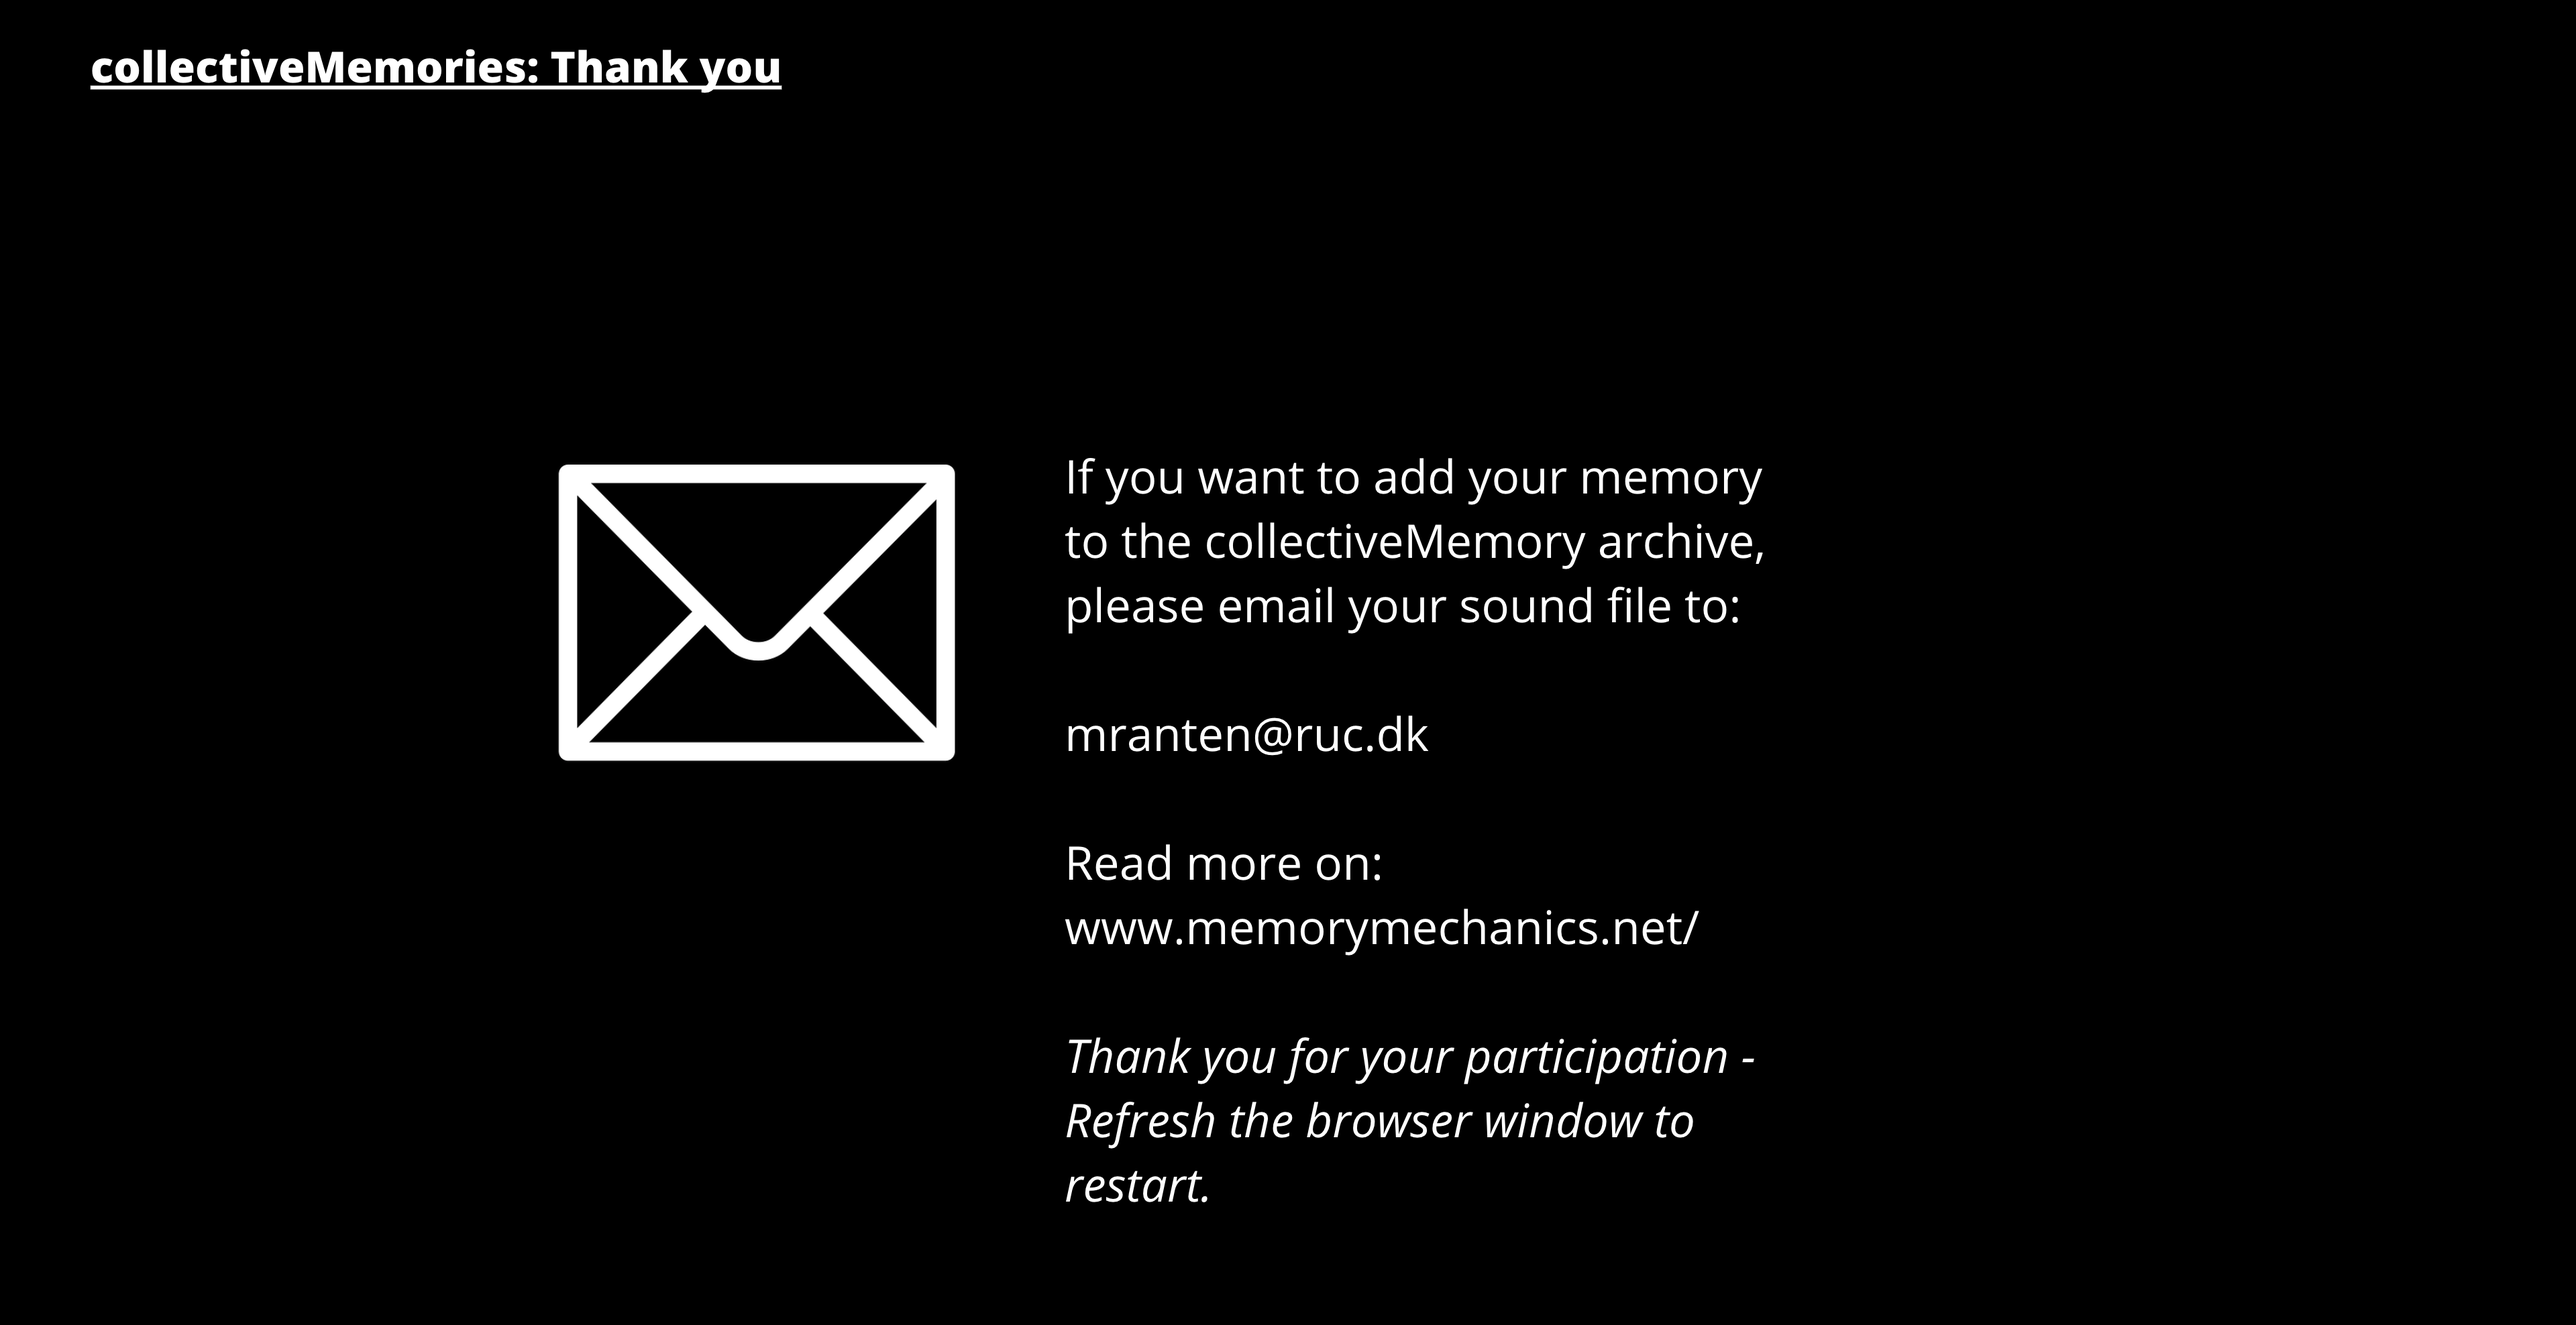
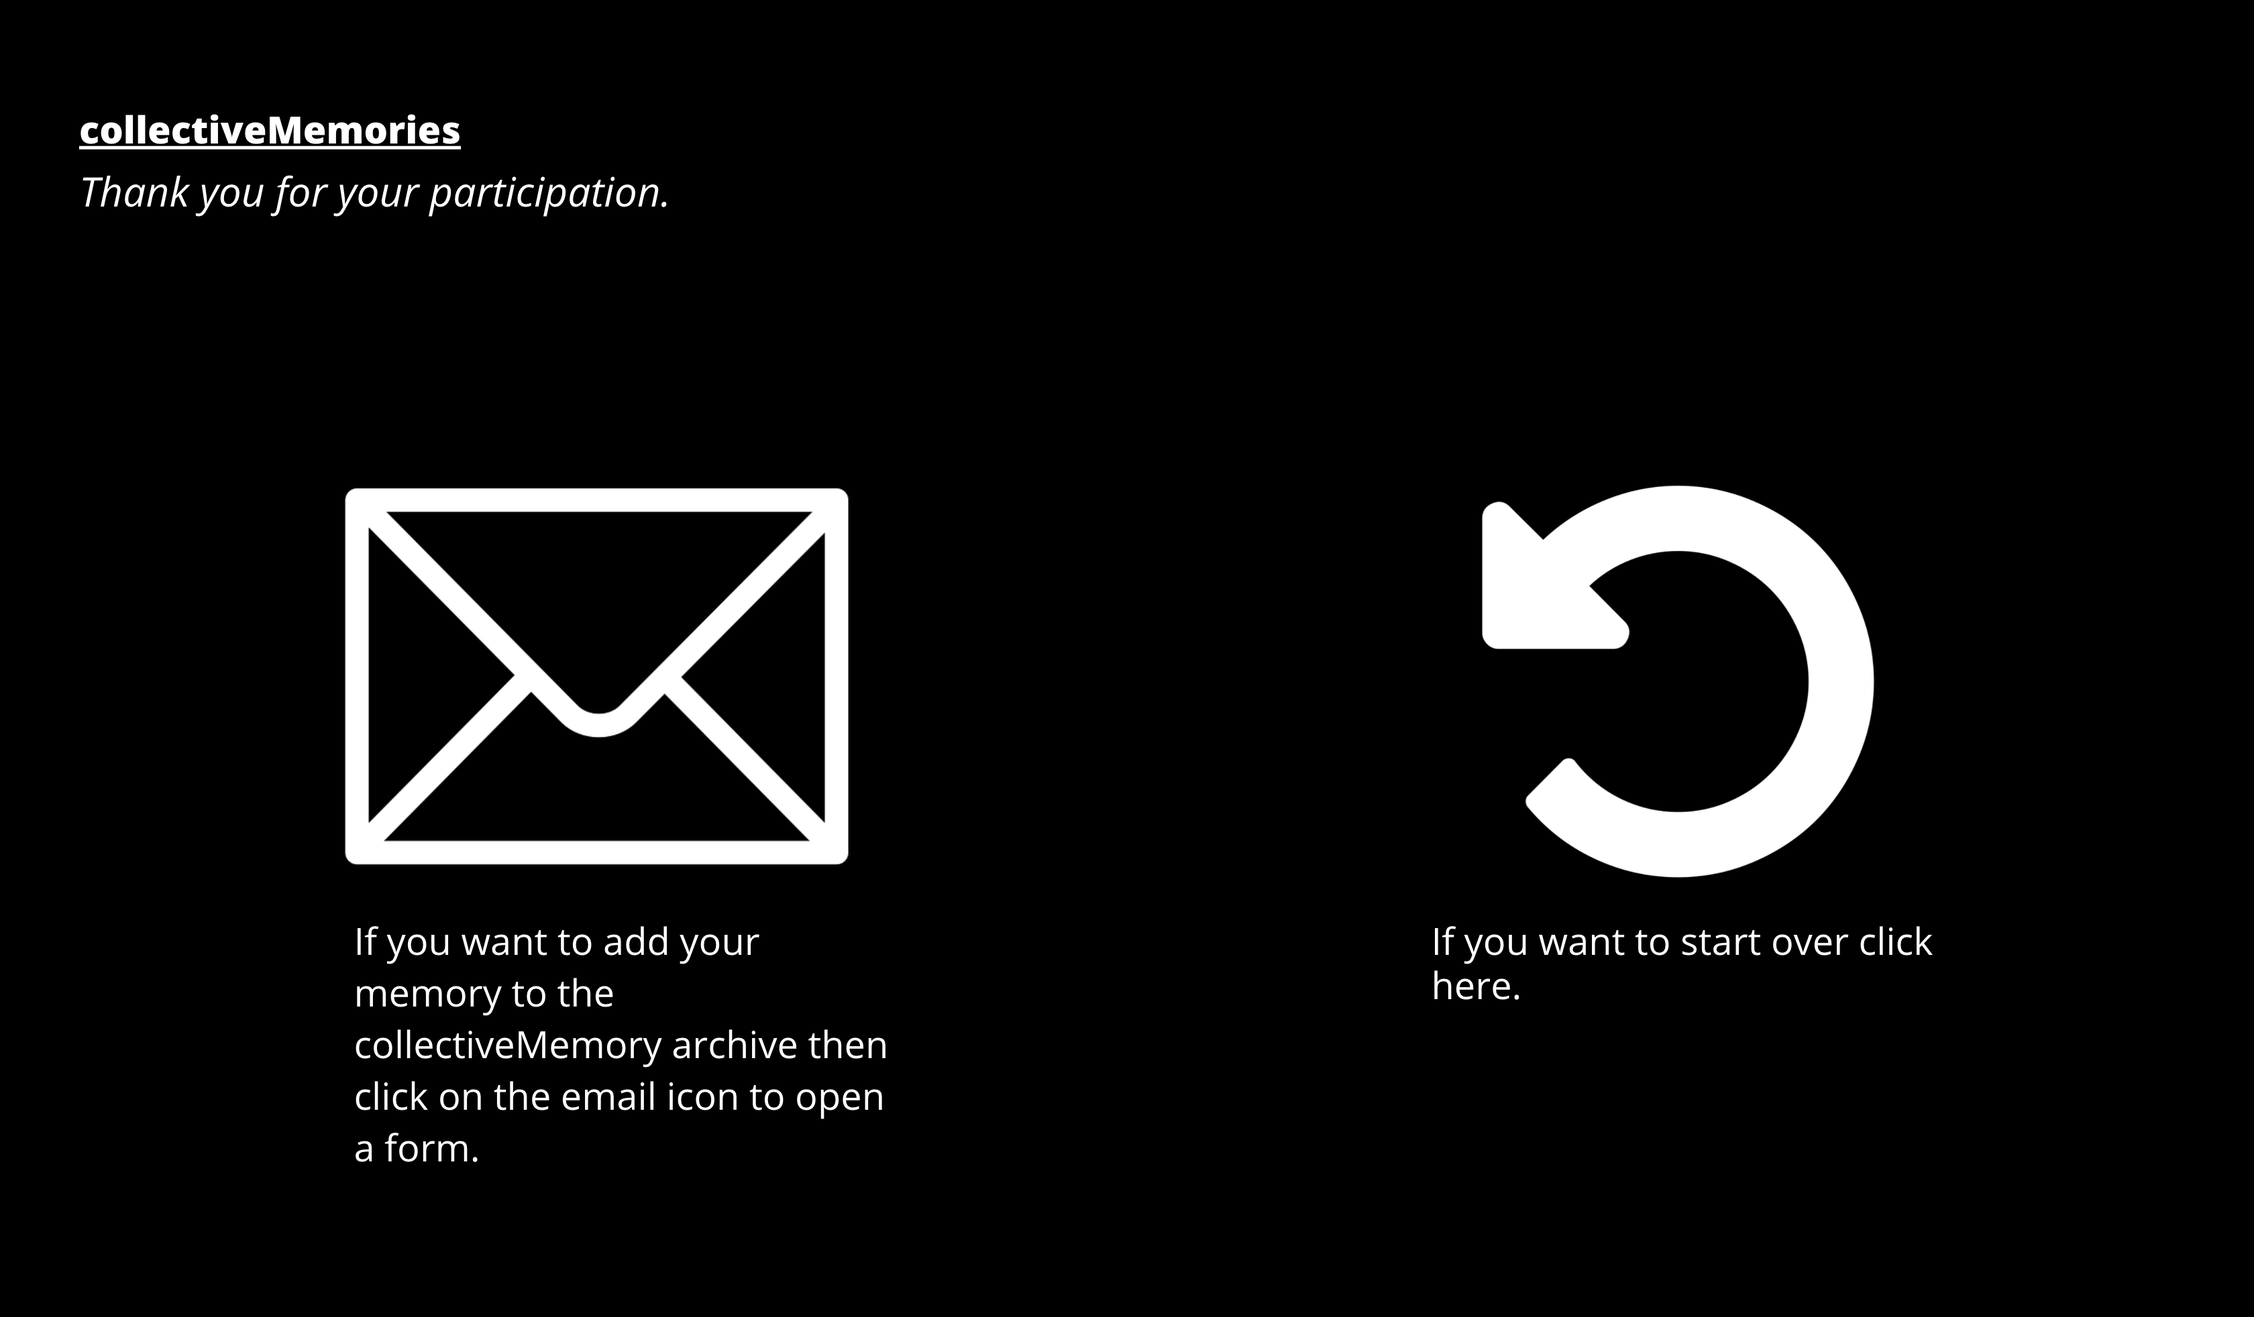
..

diff --git a/sketch.js b/sketch.js
@@ -194,7 +194,7 @@ function modelReady() {
 
 function setup() {
   frameRate(30);
- // print(responsiveVoice.getVoices());
+  // print(responsiveVoice.getVoices());
   const canvas = createCanvas(windowWidth, windowHeight);
   setupGamepad();
 
@@ -202,9 +202,9 @@ function setup() {
   let constraints = {
     video: {
       mandatory: {
-       // minWidth: 1280,
-     //   minHeight: 720
-         minWidth: 640,
+        // minWidth: 1280,
+        //   minHeight: 720
+        minWidth: 640,
         minHeight: 480
       }
       // ,optional: [{ maxFrameRate: 10 }]
@@ -212,12 +212,12 @@ function setup() {
     audio: false
   };
   video = createCapture(constraints, function(stream) {
-   
+
 
   });
 
   //video.size(1280, 720);
-  video.size(640,480);
+  video.size(640, 480);
   // print(video.height);
 
 
@@ -289,7 +289,7 @@ function setup() {
 
   chromeAgent = navigator.userAgent.indexOf("Chrome") > -1;
 
-  
+
 
   textAlign(CENTER);
   imageMode(CENTER);
@@ -322,8 +322,7 @@ function draw() {
   {
     playSounds = false;
     updateSounds();
-    print("sdf");
-  //  state = -1;
+
     mouseIsPressed = false;
     mySound.stop();
     queue = [];
@@ -331,7 +330,17 @@ function draw() {
     curText = "";
     movementStep = 0;
     introStep = 0;
-     image(img_outro, width / 2, height / 2, windowWidth, windowWidth / img_outro.width * img_outro.height);
+    state = -3;
+
+  } else if (state == -3) {
+    image(img_outro, width / 2, height / 2, windowWidth, windowWidth / img_outro.width * img_outro.height);
+    cursor(HAND);
+    if (mouseIsPressed && mouseX > width / 2) {
+      state = -1;
+
+    } else if (mouseIsPressed && mouseX < width / 2) {
+      var myWindow = window.open("https://forms.gle/ww9vmCF548KG7UhD6", "_blank");
+    }
 
   } else if (state == -2) // startup loading
   {
@@ -380,14 +389,14 @@ function draw() {
         state = 0;
       }, 3000);
       mySound.play();
-       mySound.setVolume(0.3);
+      mySound.setVolume(0.3);
     }
 
   } else if (state == -0.5) {
 
   } else if (state == 0) { // introduction
 
-   
+
     if (!speaking) {
       if (introStep == 3 && (poses == undefined || (poses != undefined && poses.length == 0))) {
         // nobody on the screen
@@ -396,10 +405,10 @@ function draw() {
         addSpeak(intro[introStep], 1000);
         introStep++
       } else {
-        mySound.setVolume(1,1);
+        mySound.setVolume(1, 1);
         setTimeout(function() {
           state = 0.5;
-          mySound.setVolume(0.2,1);
+          mySound.setVolume(0.2, 1);
         }, 10000);
 
       }
@@ -411,7 +420,7 @@ function draw() {
 
 
   } else if (state == 0.5) { // guided to a sound bit
-  
+
     if (!speaking) {
 
       if (guidedToPos < guidedToASoundBite.length) {
@@ -430,12 +439,12 @@ function draw() {
         sI = round(random(sounds.length - 1));
         sounds[sI].stop();
         print(sounds[sI].isLooping());
-      } else if (guidedToPos == guidedToASoundBite.length+1 && !sounds[sI].isPlaying()) { // atart the sound
+      } else if (guidedToPos == guidedToASoundBite.length + 1 && !sounds[sI].isPlaying()) { // atart the sound
         guidedToPos++;
         sounds[sI].play();
         sounds[sI].setVolume(1);
-          curText = "";
-      } else if (guidedToPos == guidedToASoundBite.length+2 && !sounds[sI].isPlaying()) { // go to the next state
+        curText = "";
+      } else if (guidedToPos == guidedToASoundBite.length + 2 && !sounds[sI].isPlaying()) { // go to the next state
         state = 1;
 
         addSpeak("Now it’s your turn to remember from the body - once you’re in the position, \nI invite you to share the memories or images that arise by talking out loud. \nIf nothing comes to mind just say that and relax.", 3000);
@@ -447,10 +456,10 @@ function draw() {
 
 
   } else if (state == 1) { // guided movement
-   
+
     if (!speaking) { // find yor moment.
       if (movementStep == 1) {
-      //  addSpeak(pauseAndListen, random(7000, 10000));
+        //  addSpeak(pauseAndListen, random(7000, 10000));
         state = 2;
       } else { // moving the body
 
@@ -469,7 +478,7 @@ function draw() {
 
   } else if (state == 2) // finding a moment
   {
-   
+
     if (!speaking) {
       addSpeak("What comes to mind when you’re in this position? \nDo you remember anything? \nPlease talk out loud for up to half a minute. From 3. 2. 1. now", 0);
 
@@ -479,12 +488,12 @@ function draw() {
 
 
   } else if (state == 3) {
-   
+
     if (!speaking) {
       mySound.setVolume(0, 1);
       state = 4;
       startPoseRecording();
-       recordingTimer = millis();
+      recordingTimer = millis();
 
       setTimeout(function() {
         endPoseRecording();
@@ -493,32 +502,30 @@ function draw() {
         addSpeak("You can now explore your memory with all the other memories", 3000);
         addSpeak("Move your body into different positions to explore the landscape", 3000);
         state = 5;
-    
+
         setTimeout(function() {
           curText = "";
         }, 30000);
-  
+
       }, 20000);
     }
 
   } else if (state == 4) { // recording
-   // todo countdown?
-    background(255,0,0);
-    fill(0,0,0);
-    rect(0,0,width, map(millis()-recordingTimer ,0,20000,0,height));
-  }
-  
-  else if (state == 5) { // exploration
-     if (!speaking && !playSounds) {
-       playSounds = true;
-        updateSounds();
-     }
+    // todo countdown?
+    background(255, 0, 0);
+    fill(0, 0, 0);
+    rect(0, 0, width, map(millis() - recordingTimer, 0, 20000, 0, height));
+  } else if (state == 5) { // exploration
+    if (!speaking && !playSounds) {
+      playSounds = true;
+      updateSounds();
+    }
 
   }
 
 
   if (state >= 0 && state != 4 && fullscreen()) {
-  printEye();
+    printEye();
     push();
 
     scale(videoScaling);
@@ -1044,8 +1051,9 @@ function cleanUpSkeleton(skeleton) {
 
 // A function to draw ellipses over the detected keypoints
 var oldKeypoint;
+
 function drawKeypoints(pose) {
-  
+
   // Loop through all the poses detected
   // 
 
@@ -1057,14 +1065,13 @@ function drawKeypoints(pose) {
       fill(255, 255, 255, 150);
       noStroke();
       ellipse(keypoint.position.x, keypoint.position.y, 15, 15);
-      if(oldKeypoint!=undefined)
-      {
-          stroke(255, 255, 255, 150);
-      strokeWeight(4);
-     // line(keypoint.position.x, keypoint.position.y,oldKeypoint.position.x, oldKeypoint.position.y);
+      if (oldKeypoint != undefined) {
+        stroke(255, 255, 255, 150);
+        strokeWeight(4);
+        // line(keypoint.position.x, keypoint.position.y,oldKeypoint.position.x, oldKeypoint.position.y);
       }
-      
-     oldKeypoint =keypoint;
+
+      oldKeypoint = keypoint;
 
     }
   }

diff --git a/index.html b/index.html
@@ -11,7 +11,7 @@
   <script src="p5.dom.min.js"></script>
   <script src="p5.sound.min.js"></script>
 
-<script src="libs/responsivevoice.js"></script>
+<script src="/libs/responsivevoice.js"></script>
   <link rel="stylesheet" type="text/css" href="style.css">
   <meta charset="utf-8">
   <meta name="apple-mobile-web-app-capable" content="yes">
